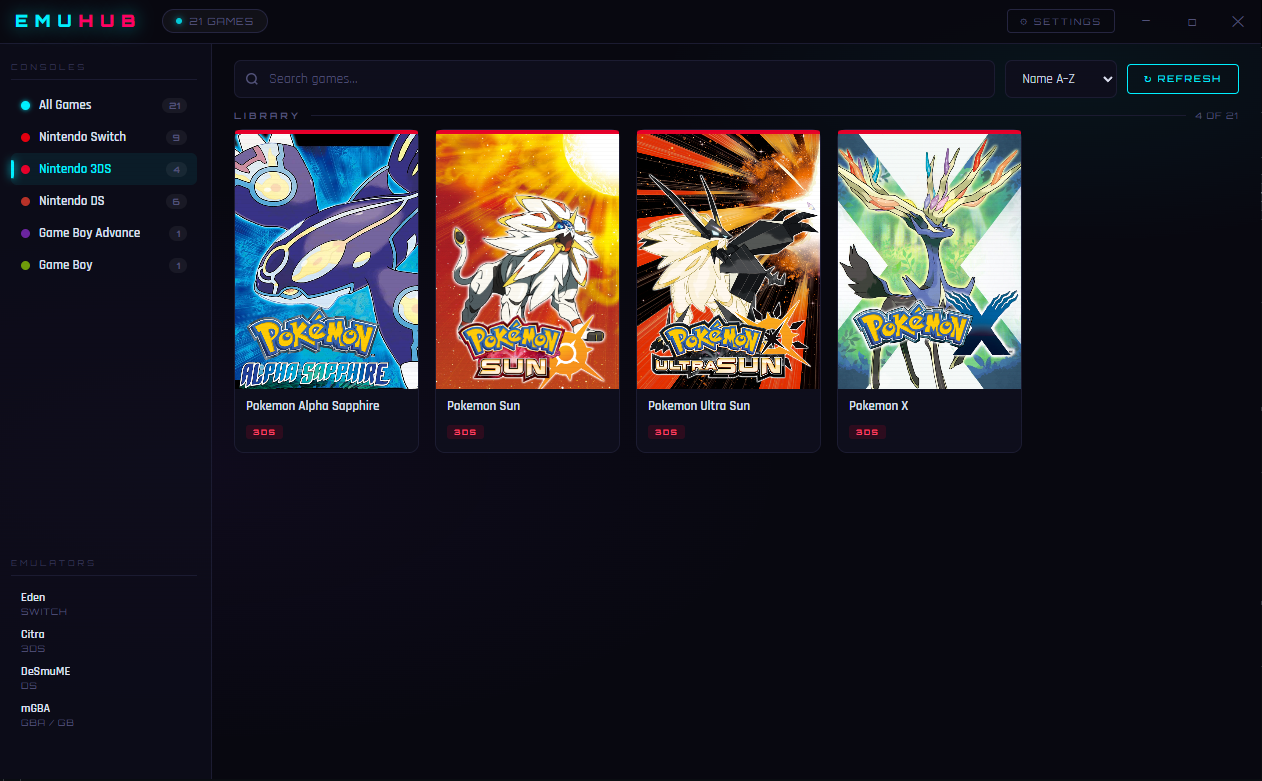
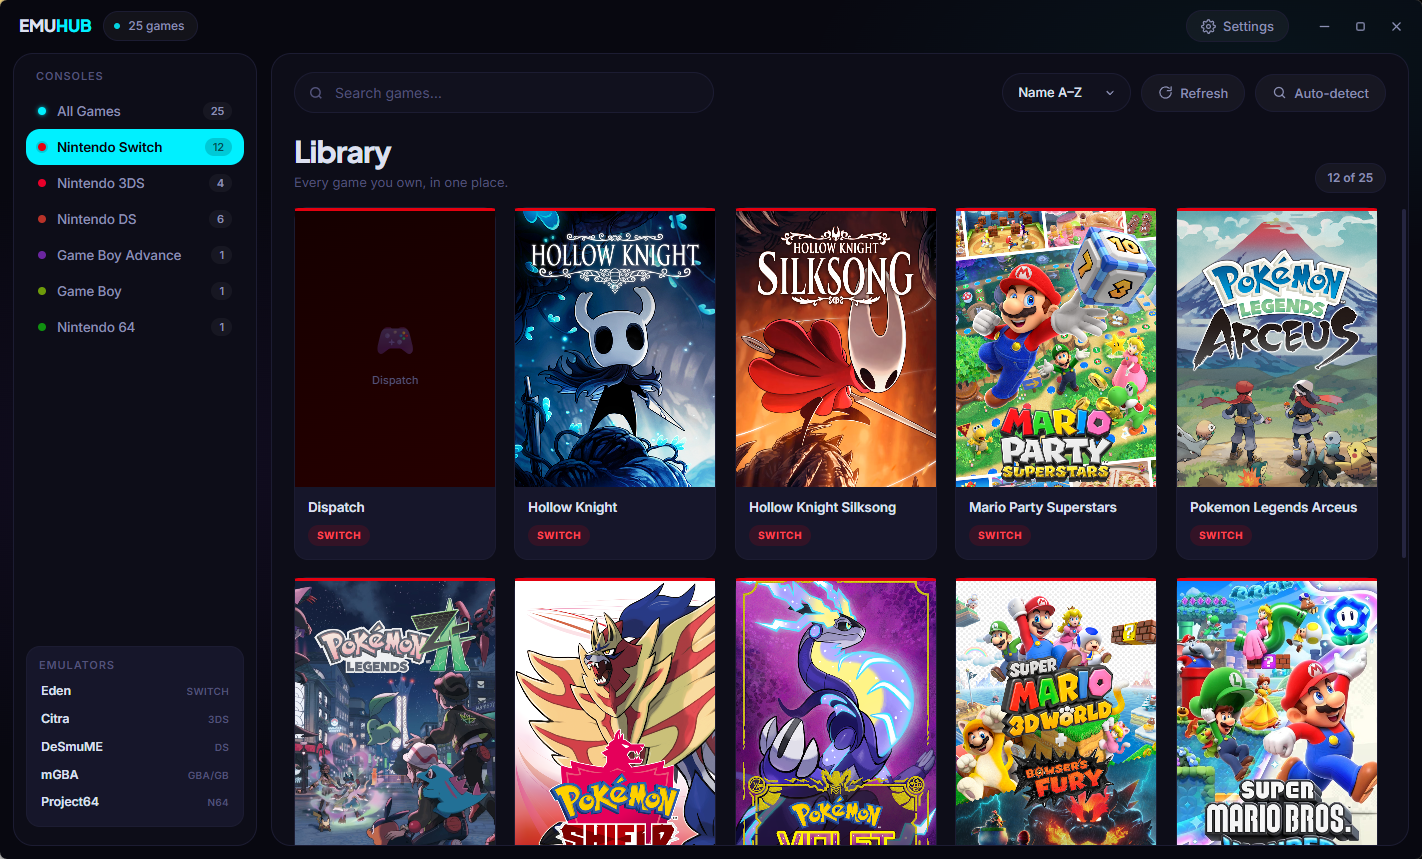
Update screenshots to the new UI and bump to 1.2.0
Captured from a real library at 1422x859. The filter shot is now the
Switch view rather than 3DS, so the alt text follows it.

diff --git a/README.md b/README.md
@@ -18,7 +18,7 @@ EmuHub is a single desktop application that brings every emulator you have into 
 
 | Library | Filtered by Console | Settings |
 |---|---|---|
-| ![Library](screenshots/library.png) | ![3DS Filter](screenshots/filter.png) | ![Settings](screenshots/settings.png) |
+| ![Library](screenshots/library.png) | ![Switch Filter](screenshots/filter.png) | ![Settings](screenshots/settings.png) |
 
 ---
 
@@ -87,21 +87,23 @@ EmuHub is a single desktop application that brings every emulator you have into 
 
 ## First-Time Setup
 
-1. **Launch EmuHub**
-2. Click **⚙ SETTINGS** in the top-right corner
-3. **ROM PATHS tab** — point each console at the folder containing its ROMs
-4. **EMULATORS tab** — point each console at its emulator `.exe`
-5. Click **SAVE CHANGES** — your library populates instantly
+When you launch EmuHub for the first time, a **guided onboarding wizard** walks you through three quick steps:
 
-### Auto-detecting emulators
+1. **Emulators** — Auto-detect installed emulators on your system or open Settings to manually browse to each `.exe`
+2. **ROM Folders** — Open Settings to point each console at the folder where its ROMs are stored
+3. **Cover Art (optional)** — Enter a free [SteamGridDB](https://www.steamgriddb.com) API key so EmuHub can automatically download box art for every game
 
-Open **Settings → AUTO-DETECT** and click **SCAN NOW**. EmuHub searches your system for known emulator executables and lists what it finds. Click **Apply** on any result to use it.
+After setup you'll see a quick feature overview — search, launch, filter by console, sort, and more.
 
-### Box art (optional)
+The wizard only appears once. You can skip any step and configure everything later via **⚙ Settings**.
+
+> You can also click the **AUTO-DETECT** button on the main toolbar at any time to scan for new emulators.
+
+### Box art setup
 
 1. Create a free account at [steamgriddb.com](https://www.steamgriddb.com)
 2. Go to **Profile → Preferences → API → Generate API Key**
-3. In EmuHub, open **Settings → API KEY**, paste your key, and click **SAVE**
+3. During the wizard (or later in **Settings → API KEY**), paste your key and click **SAVE**
 
 Box art loads automatically for every game and is cached locally — it only downloads once.
 
